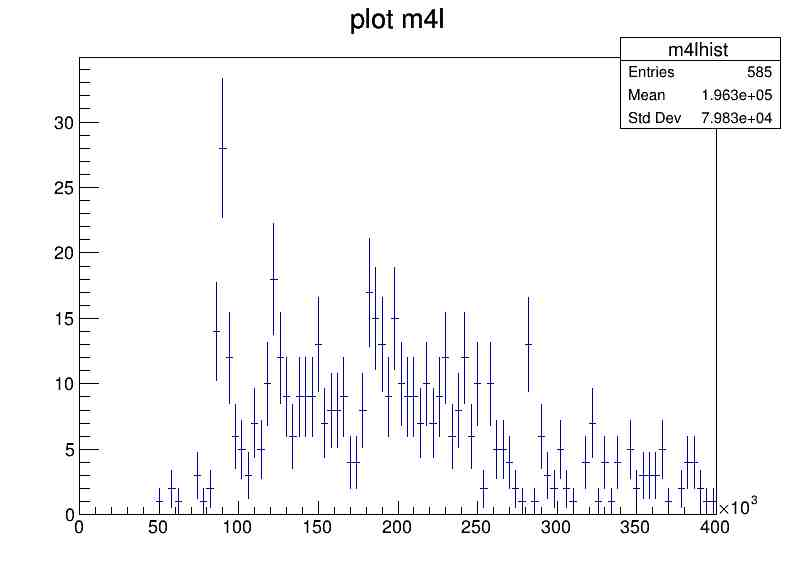
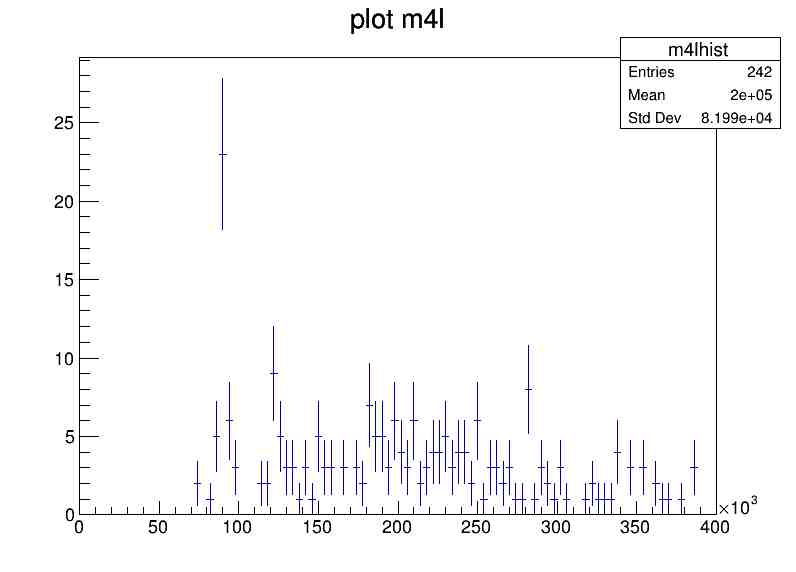
donderdag

diff --git a/m4l.py b/m4l.py
@@ -37,53 +37,6 @@ higgsandZZ = ["mc_345060.ggH125_ZZ4lep.4lep.root" ,\
 
 higgs = ['mc_345060.ggH125_ZZ4lep.4lep.root']
 
-datafilelist = ["data_A.4lep.root",\
-"data_B.4lep.root" ,\
-"data_C.4lep.root",\
-"data_D.4lep.root" ]
-
-mclist = ['mc_341122.ggH125_tautaull.4lep.root' ,\
-'mc_341155.VBFH125_tautaull.4lep.root' ,\
-'mc_341947.ZH125_ZZ4lep.4lep.root' ,\
-'mc_341964.WH125_ZZ4lep.4lep.root' ,\
-'mc_344235.VBFH125_ZZ4lep.4lep.root' ,\
-'mc_345060.ggH125_ZZ4lep.4lep.root' ,\
-'mc_345323.VBFH125_WW2lep.4lep.root' ,\
-'mc_345324.ggH125_WW2lep.4lep.root' ,\
-'mc_345325.WpH125J_qqWW2lep.4lep.root' ,\
-'mc_345327.WpH125J_lvWW2lep.4lep.root' ,\
-'mc_345336.ZH125J_qqWW2lep.4lep.root' ,\
-'mc_345337.ZH125J_llWW2lep.4lep.root' ,\
-'mc_345445.ZH125J_vvWW2lep.4lep.root' ,\
-'mc_361100.Wplusenu.4lep.root' ,\
-'mc_361101.Wplusmunu.4lep.root' ,\
-'mc_361102.Wplustaunu.4lep.root' ,\
-'mc_361103.Wminusenu.4lep.root' ,\
-'mc_361104.Wminusmunu.4lep.root' ,\
-'mc_361105.Wminustaunu.4lep.root' ,\
-'mc_361106.Zee.4lep.root' ,\
-'mc_361107.Zmumu.4lep.root' ,\
-'mc_361108.Ztautau.4lep.root' ,\
-'mc_363356.ZqqZll.4lep.root' ,\
-'mc_363358.WqqZll.4lep.root' ,\
-'mc_363359.WpqqWmlv.4lep.root' ,\
-'mc_363360.WplvWmqq.4lep.root' ,\
-'mc_363489.WlvZqq.4lep.root' ,\
-'mc_363490.llll.4lep.root' ,\
-'mc_363491.lllv.4lep.root' ,\
-'mc_363492.llvv.4lep.root' ,\
-'mc_363493.lvvv.4lep.root' ,\
-'mc_410000.ttbar_lep.4lep.root' ,\
-'mc_410011.single_top_tchan.4lep.root' ,\
-'mc_410012.single_antitop_tchan.4lep.root' ,\
-'mc_410013.single_top_wtchan.4lep.root' ,\
-'mc_410014.single_antitop_wtchan.4lep.root' ,\
-'mc_410025.single_top_schan.4lep.root' ,\
-'mc_410026.single_antitop_schan.4lep.root' ,\
-'mc_410155.ttW.4lep.root' ,\
-'mc_410218.ttee.4lep.root' ,\
-'mc_410219.ttmumu.4lep.root' ]
-
 bigfiles = ['mc_363490.llll.4lep.root',
 'mc_361106.Zee.4lep.root',
 'mc_361107.Zmumu.4lep.root',
@@ -110,13 +63,30 @@ def m4lhist(filelist, cut):
         for event in range(number_entries):
             tree.GetEntry(event)
             
+            sfos = True
             istight = True
             ptcone = False
             etcone = False
             etfilter = False
             ptfilter = False
-            ptlist = [25, 15, 15, 7]
+            ptlist = [25, 15, 10, 7]
             jetfilter = False
+            
+            checkpair = [[0,1],[0,2],[0,3]]
+            pairs_found = []
+            for i,j in checkpair:
+                otherpair = [0,1,2,3]
+                otherpair.remove(i)
+                otherpair.remove(j)
+
+                index0 = otherpair[0]
+                index1 = otherpair[1]
+
+                if tree.lep_charge[i] == - tree.lep_charge[j] and tree.lep_type[i] == tree.lep_type[j] \
+                and tree.lep_charge[index0] == - tree.lep_charge[index1] and tree.lep_type[index0] == tree.lep_type[index1]: 
+                    pairs_found.append([i,j])
+            if len(pairs_found) == 0:
+                sfos = False
 
             for i in range(3):
                 if tree.lep_isTightID[i] == False: 
@@ -125,7 +95,6 @@ def m4lhist(filelist, cut):
                     ptcone = True
                 if tree.lep_etcone20 < 0 or abs(tree.lep_etcone20[i]/tree.lep_pt[i]) > 0.15:   
                     etcone = True
-                # print(tree.lep_etcone20)
                 if tree.lep_etcone20[i] > 2000:
                     etfilter = True
                 if tree.lep_pt[i] < ptlist[i]:
@@ -137,7 +106,8 @@ def m4lhist(filelist, cut):
                     jetfilter = True
             
             if cut == True:
-                if istight == False or ptcone == True or etcone == True or ptfilter == True or jetfilter == True or etfilter == True:
+                if istight == False or ptcone == True or etcone == True or ptfilter == True\
+                or jetfilter == True or etfilter == True or sfos == False:
                     continue
 
             E4l_squared = np.sum(tree.lep_E) ** 2

diff --git a/m4ldata.py b/m4ldata.py
@@ -11,6 +11,9 @@ datafilelist = ["data_A.4lep.root",\
 "data_C.4lep.root",\
 "data_D.4lep.root" ]
 
+histslist = ['m4l', 'cut1', 'cut2', 'cut3']
+histlist[i] = ROOT.TH1F('{}}'.format(histlist[i]),"plot m4l",100, 0, 400000)
+
 def m4lstacked(filelist, cut, filename):
     stackedhist = ROOT.TH1F('m4lhist',"plot m4l",100, 0, 400000)
      
@@ -21,14 +24,33 @@ def m4lstacked(filelist, cut, filename):
         
         for event in range(number_entries):
             tree.GetEntry(event)
+        
             
+            
+            sfos = True
             istight = True
             ptcone = False
             etcone = False
             etfilter = False
             ptfilter = False
-            ptlist = [25, 15, 15, 7]
             jetfilter = False
+            ptlist = [25, 15, 10, 7]
+
+            checkpair = [[0,1],[0,2],[0,3]]
+            pairs_found = []
+            for i,j in checkpair:
+                otherpair = [0,1,2,3]
+                otherpair.remove(i)
+                otherpair.remove(j)
+
+                index0 = otherpair[0]
+                index1 = otherpair[1]
+
+                if tree.lep_charge[i] == - tree.lep_charge[j] and tree.lep_type[i] == tree.lep_type[j] \
+                and tree.lep_charge[index0] == - tree.lep_charge[index1] and tree.lep_type[index0] == tree.lep_type[index1]: 
+                    pairs_found.append([i,j])
+            if len(pairs_found) == 0:
+                sfos = False
 
             for i in range(3):
                 if tree.lep_isTightID[i] == False: 
@@ -37,7 +59,6 @@ def m4lstacked(filelist, cut, filename):
                     ptcone = True
                 if tree.lep_etcone20 < 0 or abs(tree.lep_etcone20[i]/tree.lep_pt[i]) > 0.15:   
                     etcone = True
-                # print(tree.lep_etcone20)
                 if tree.lep_etcone20[i] > 2000:
                     etfilter = True
                 if tree.lep_pt[i] < ptlist[i]:
@@ -49,7 +70,8 @@ def m4lstacked(filelist, cut, filename):
                     jetfilter = True
             
             if cut == True:
-                if istight == False or ptcone == True or etcone == True or ptfilter == True or jetfilter == True or etfilter == True:
+                if istight == False or ptcone == True or etcone == True or ptfilter == True\
+                or jetfilter == True or etfilter == True or sfos == False:
                     continue
 
             E4l_squared = np.sum(tree.lep_E) ** 2
@@ -70,4 +92,4 @@ def m4lstacked(filelist, cut, filename):
     b.cd()
     stackedhist.Write()
 
-m4lstacked(datafilelist, True, 'datastackedcut1.root')
+m4lstacked(datafilelist, True, 'datastackedcut.root')

diff --git a/klad.py b/klad.py
@@ -5,10 +5,13 @@ f = ROOT.TFile.Open("/data/atlas/users/mvozak/opendata/4lep/MC/mc_361106.Zee.4le
 f2 = ROOT.TFile.Open("/data/atlas/users/mvozak/opendata/4lep/MC/mc_363490.llll.4lep.root")
 f3 = ROOT.TFile.Open("/data/atlas/users/mvozak/opendata/4lep/MC/mc_345060.ggH125_ZZ4lep.4lep.root")
 
+
 tree = f.Get('mini')
 tree2 = f2.Get("mini")
 tree3 = f3.Get('mini')
 
+f4 = ROOT.TFile.Open('/user/ksmits/BachelorProject/m4lhists/mc_361106.Zee.4lep.root')
+f4.ls()
 
 bigfiles = ['mc_363490.llll.4lep.root',
 'mc_361106.Zee.4lep.root',
@@ -25,14 +28,10 @@ def weg(tree, imagename):
     hist = ROOT.TH1F('m4lhist',"plot m4l",100, -10000, 10000)
     for event in range(1000):
         tree.GetEntry(event)
-        # print(tree.jet_pt)
         a = False
         if tree.jet_n != 0:
             lijst.append(event)
         
-        
-        # for i in range(tree.jet_n):
-            # print(tree.jet_pt[i], tree.jet_jvt[i])
         for i in range(4):
             print(tree.lep_etcone20[i])
             hist.Fill(tree.lep_etcone20[i])
@@ -55,7 +54,7 @@ def etconehist(tree):
 # print(weg(tree), weg(tree2), weg(tree3))
 
 
-print('abdcd'.replace('d', 'e'))
+# print('abdcd'.replace('d', 'e'))
 
 # lijst = [3,2,4,5,6]
 # lijst2 = [3,2,4,5,6]
@@ -67,3 +66,42 @@ print('abdcd'.replace('d', 'e'))
 #     indexlist.append(lijst.index(i))
     
 # print(indexlist)
+
+def sfos(tree):
+    sfos = []
+    
+    for event in range(100):
+        tree.GetEntry(event)
+        
+        checkpair = [[0,1],[0,2],[0,3]]
+        pairs_found = []
+        
+        for i,j in checkpair:
+            otherpair = [0,1,2,3]
+            otherpair.remove(i)
+            otherpair.remove(j)
+
+            index0 = otherpair[0]
+            index1 = otherpair[1]
+
+            if tree.lep_charge[i] == - tree.lep_charge[j] and tree.lep_type[i] == tree.lep_type[j] \
+            and tree.lep_charge[index0] == - tree.lep_charge[index1] and tree.lep_type[index0] == tree.lep_type[index1]: 
+                pairs_found.append([i,j])
+        # if len(pairs_found == 0)
+        # print(pairs_found)
+        
+        if len(pairs_found) != 0:
+            sfos.append(event)
+        if len(pairs_found) == 0:
+            typelist = []
+            chargelist = []
+            for i in range(4):
+                typelist.append(tree.lep_charge[i])
+                chargelist.append(tree.lep_type[i])
+            print(typelist, chargelist)
+    print(len(sfos))
+        # for i in range(4):
+        #     print(tree.lep_charge[i])
+        #     print(tree.lep_type[i])
+
+# sfos(tree3)

diff --git a/m4lplot.py b/m4lplot.py
@@ -119,8 +119,8 @@ def m4lplot(filelist, cut):
     
     
     for bestand in filelist:
-        if cut == True:
-            bestand = bestand.replace('.root', 'cut.root')
+        # if cut == True:
+        #     bestand = bestand.replace('.root', 'cut.root')
 
         f = ROOT.TFile.Open('/user/ksmits/BachelorProject/m4lhists/{}'.format(bestand), "READ")
         hist = f.Get('m4lhist')
@@ -137,24 +137,12 @@ def m4lplot(filelist, cut):
         imagename = bestand.replace('.root','.jpg', 1)
         canvas.Print('/user/ksmits/BachelorProject/m4lhists/{}'.format(imagename))
 
-m4lplot(bigfiles, True)
+# m4lplot(bigfiles, True)
 
-# m4lplot(['datastackedcut1.root'])
+m4lplot(['datastackedcut.root'] , True)
 
-
-
-def integral(filename):
-    f = ROOT.TFile.Open(filename)
-    hist = f.Get('m4lhist')
-    integral = hist.Integral()
-    print(integral)
-
-# integral('/user/ksmits/BachelorProject/m4lhists/higgsuncut.root')
-# integral('/user/ksmits/BachelorProject/m4lhists/higgscut.root')
 
 def stack(filelist, imagename, cut):
-
-    
     canvas = ROOT.TCanvas("canvas","plot a variable", 800, 600)
     
     if cut == True:
@@ -162,7 +150,7 @@ def stack(filelist, imagename, cut):
     if cut == False:
         datafile = ROOT.TFile.Open('/user/ksmits/BachelorProject/m4lhists/datastacked.root', 'read')
     datahist = datafile.Get('m4lhist')
-    datahist.Draw('E')
+    # datahist.Draw('E')
     
     stack = {}
     stack['0'] = ROOT.TH1F('abc', "m4l", 100, 0 , 400000)
@@ -220,7 +208,7 @@ def stack(filelist, imagename, cut):
         stack['{}'.format(i)].Draw('same hist')
     canvas.Print('/user/ksmits/BachelorProject/m4lhists/{}'.format(imagename))
 
-stack(bigfiles, 'bigfilecuts.jpg', True)
+stack(bigfiles, 'bigfiles.jpg', False)
 # stack(ZZandHiggs, 'ZZandHiggs.jpg')
 
 
